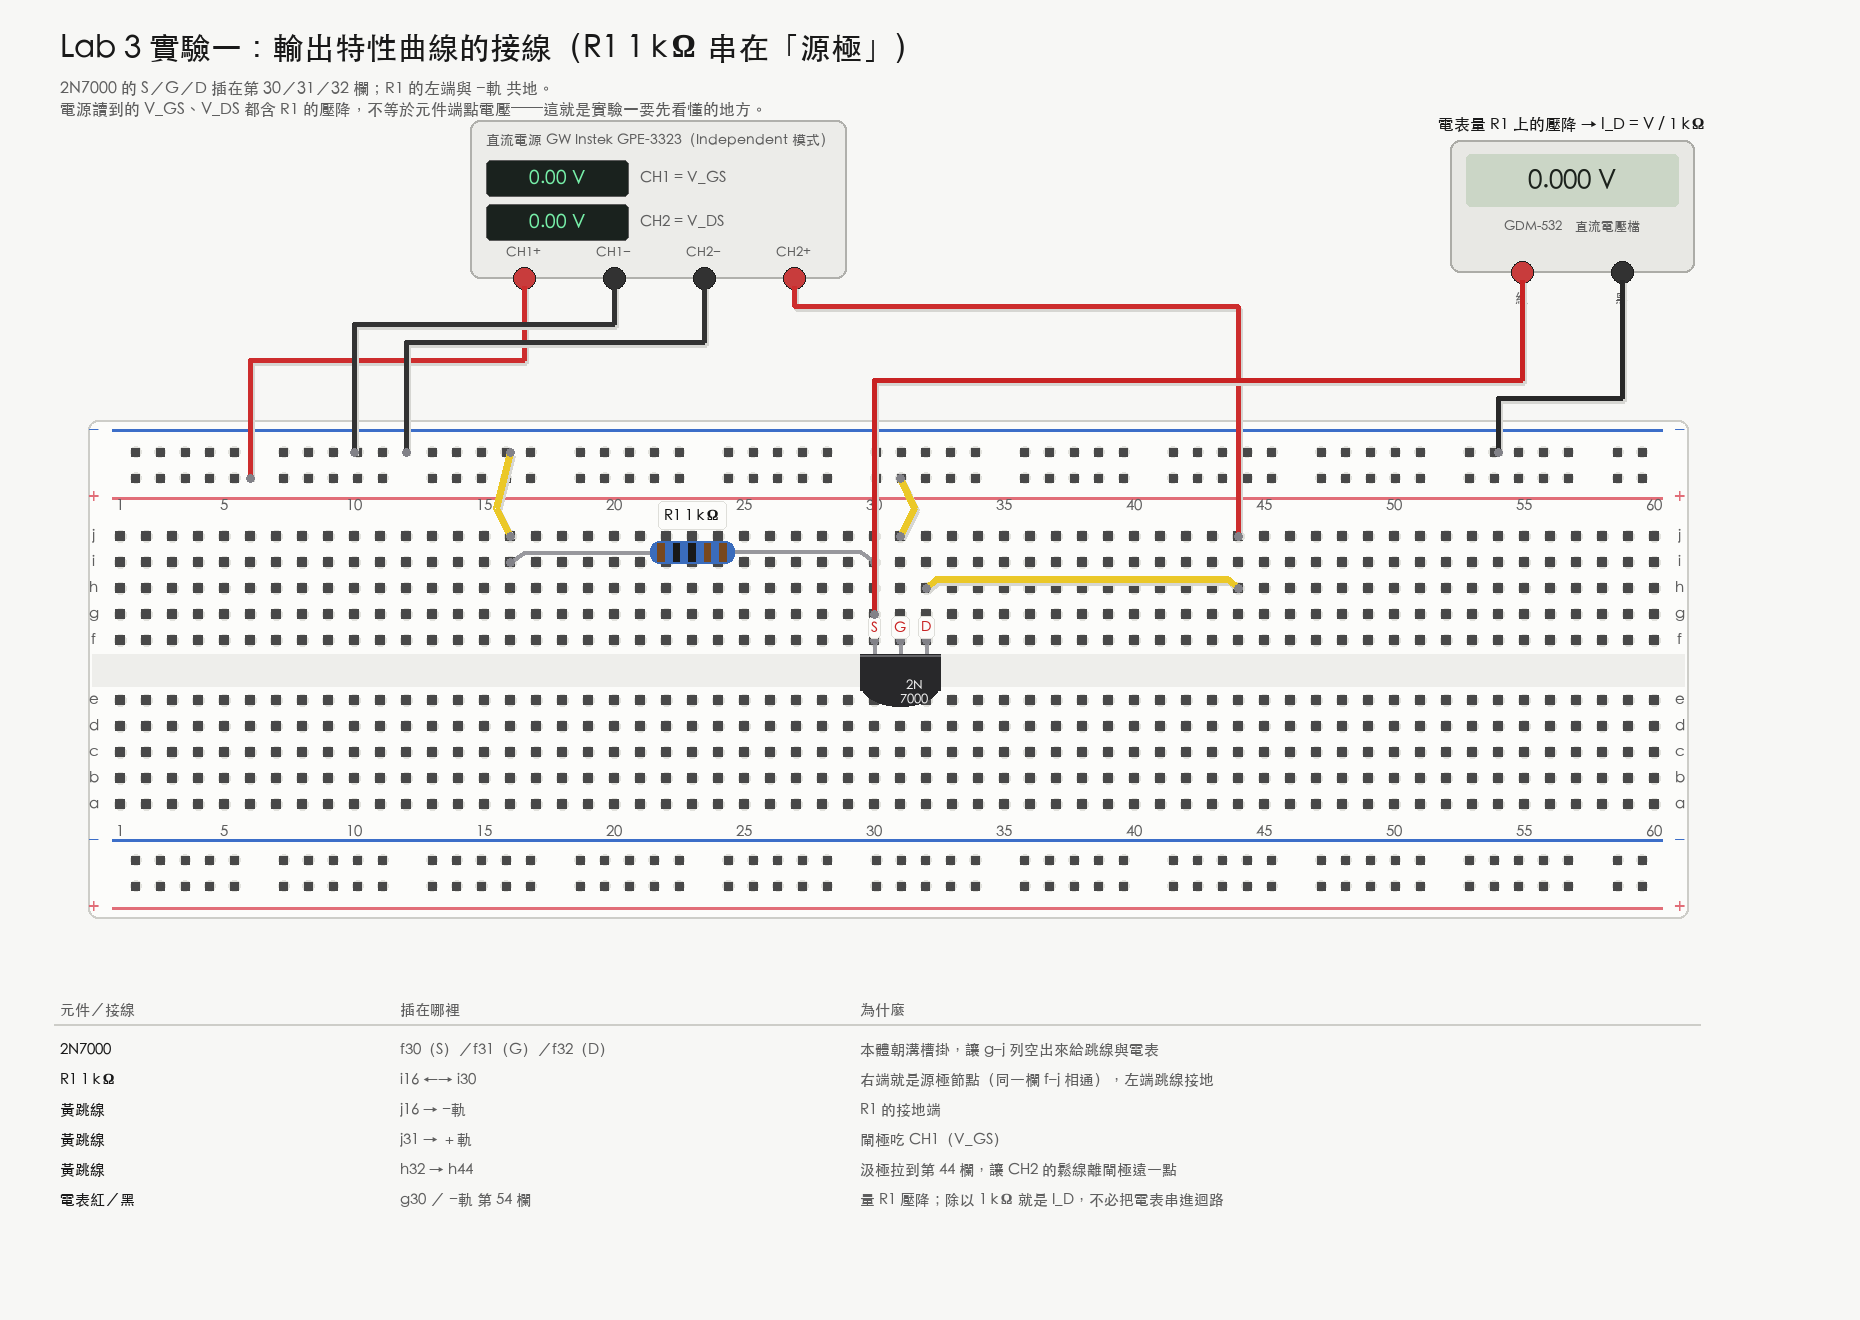
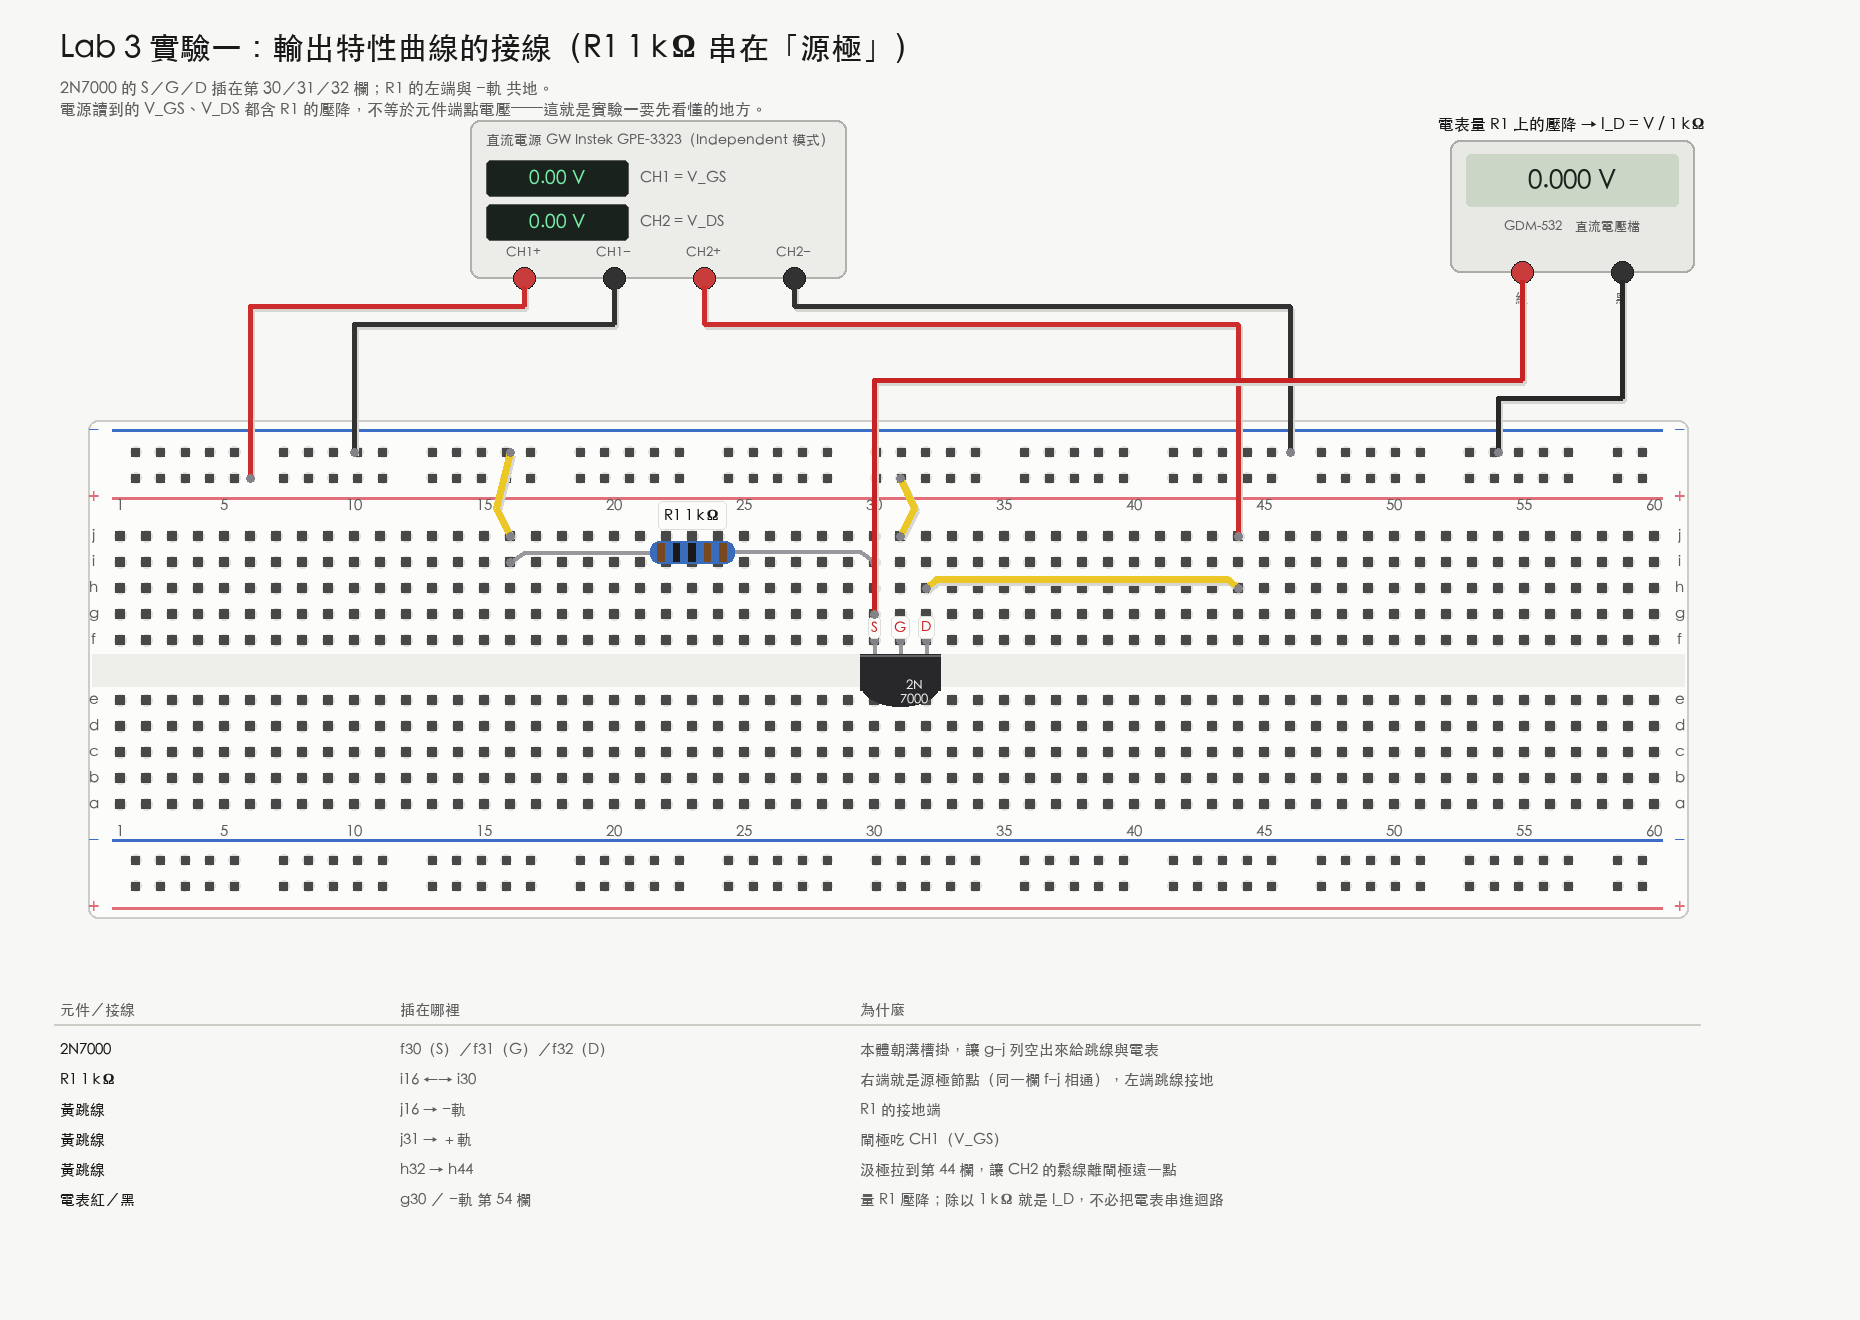
fix(lab): 電源面板端子改成實機的 CH1+ CH1− CH2+ CH2− 並重排電源線
GPE-3323 前面板實際是紅黑紅黑，原本 Lab 2／Lab 3 的麵包板圖把 CH2 畫成
− 在左、+ 在右。

- 兩支繪圖腳本交換 CH2 端子；CH2− 改走上層線道、越過 CH2+ 落點再夾 −軌
  （Lab 2 第 48 欄、Lab 3 第 46 欄），四條電源線不再交叉
- Lab 3 電流分析圖腳本的線道常數與接線圖同步（原本 324 對 342 錯位）
- 重新產出 Lab 2 接線圖與 Lab 3 三組接線圖／電流分析圖
- 第 6、9 週筆記補上端子順序與 CH2− 夾哪一欄
- lab-workflow skill 記下「儀器面板照實機畫」與不交叉繞線規則

Claude-Session: https://claude.ai/code/session_01KhUmVZdES17hR21BqzEYv8

Changed region(s): [[0.1247, 0.1864, 0.7172, 0.2795], [0.686, 0.3106, 0.7172, 0.3417]]

diff --git a/simulations/lab2/draw_real_breadboard.py b/simulations/lab2/draw_real_breadboard.py
@@ -307,10 +307,10 @@ def supply(d, x, y, ch1, ch2):
                             fill=(26, 34, 30), outline=(92, 92, 92))
         text(d, (x + 87, yy + 18), val, size=19, fill=(118, 238, 168), anchor="mm")
         text(d, (x + 170, yy + 18), lab, size=15, fill=INK2, anchor="lm")
-    # 四個端子，由左到右：CH1+ CH1− CH2− CH2+
+    # 四個端子，由左到右：CH1+ CH1− CH2+ CH2−（GPE-3323 實機是紅黑紅黑）
     posts = {}
     order = [("ch1+", "CH1+", (200, 60, 60)), ("ch1-", "CH1−", (50, 50, 50)),
-             ("ch2-", "CH2−", (50, 50, 50)), ("ch2+", "CH2+", (200, 60, 60))]
+             ("ch2+", "CH2+", (200, 60, 60)), ("ch2-", "CH2−", (50, 50, 50))]
     for i, (key, lab, col) in enumerate(order):
         px = x + 54 + i * 90
         d.ellipse([px - 11, y + h - 11, px + 11, y + h + 11], fill=col,
@@ -362,6 +362,7 @@ C_VBB = 18        # V_BB 從 ＋軌 跳進板上的欄
 C_E, C_B, C_C = 30, 31, 32
 C_R2G = 42        # R2 下端接地的欄
 C_VCC = 45        # V_CC 進線的欄（R_C 另一端）
+C_G2 = 48         # CH2− 夾在 −軌 的這一欄（在 j45 右邊，線才不會和 CH2+ 交叉）
 C_BLK = 56        # 電表黑線固定夾在 −軌 的這一欄
 
 BANDS_10K = ["棕", "黑", "黑", "紅", "棕"]
@@ -428,25 +429,28 @@ def fig_wiring():
     draw_circuit(d)
     node_marks(d)
 
-    # 電源四條線：端子由左到右、目標也由左到右，彼此不交叉
-    targets = [
-        ("ch1+", hole(7, "+"), WIRE_RED, "CH1+ → ＋軌"),
-        ("ch1-", hole(10, "-"), WIRE_BLACK, "CH1− → −軌"),
-        ("ch2-", hole(13, "-"), WIRE_BLACK, "CH2− → −軌"),
-    ]
-    for i, (key, tgt, col, lab) in enumerate(targets):
+    # 電源四條線。實機端子由左到右是 CH1+ CH1− CH2+ CH2−：
+    # CH1 兩條往左下進電源軌；CH2+ 走 362 這條線道往右到 j45，
+    # CH2− 走更高的 340 往右、越過第 45 欄後才下到「−」軌（第 48 欄），四條線都不交叉。
+    for key, tgt, col in (("ch1+", hole(7, "+"), WIRE_RED),
+                          ("ch1-", hole(10, "-"), WIRE_BLACK)):
         px, py = posts[key]
-        lane = 372 + i * 0
-        wire(d, [(px, py), (px, lane), (tgt[0], lane + 14), tgt], col, width=6)
+        wire(d, [(px, py), (px, 372), (tgt[0], 386), tgt], col, width=6)
         plug(d, tgt)
     px, py = posts["ch2+"]
-    wire(d, [(px, py), (px, 392), (cx(C_VCC) - 18, 392), hole(C_VCC, "j")], WIRE_RED, width=6)
+    wire(d, [(px, py), (px, 362), (cx(C_VCC) - 18, 362), hole(C_VCC, "j")], WIRE_RED, width=6)
     plug(d, hole(C_VCC, "j"))
+    px, py = posts["ch2-"]
+    xg, yg = hole(C_G2, "-")
+    wire(d, [(px, py), (px, 340), (xg, 340), (xg, yg)], WIRE_BLACK, width=6)
+    plug(d, (xg, yg))
 
     text(d, (cx(7) - 20, 410), "CH1+ 進「＋」軌＝V_BB", size=14, fill=CALL, anchor="rm")
-    text(d, (cx(13) + 20, 410), "CH1− 與 CH2− 一起夾「−」軌＝共地", size=14, fill=CALL, anchor="lm")
-    text(d, (cx(C_VCC) - 28, 376), "CH2+ 直接進 j45（RC 的另一端）＝V_CC",
+    text(d, (cx(10) + 20, 410), "CH1− 夾「−」軌＝共地", size=14, fill=CALL, anchor="lm")
+    text(d, (cx(C_VCC) - 28, 380), "CH2+ 直接進 j45（RC 的另一端）＝V_CC",
          size=14, fill=CALL, anchor="rm")
+    text(d, (cx(C_G2) + 14, 410), "CH2− 也夾「−」軌（第 48 欄）＝共地",
+         size=14, fill=CALL, anchor="lm")
 
     callout(d, (980, 168),
             "為什麼 V_CC 不也走電源軌？\n"
@@ -469,7 +473,7 @@ def fig_wiring():
           ["", "插什麼", "為什麼"],
           [40, 400, 420],
           [(str(i + 1), a, b) for i, (a, b) in enumerate([
-              ("CH1− 與 CH2− 兩條線都夾進上方「−」軌", "共地。漏掉這條整個電路不會動"),
+              ("CH1− 夾第 10 欄、CH2− 夾第 48 欄，都在上方「−」軌", "共地。漏掉這條整個電路不會動"),
               ("CH1+ 夾進上方「＋」軌", "這一路是 V_BB"),
               ("黃跳線：＋軌 → j18", "把 V_BB 帶到板上"),
               ("R1 10 kΩ 橫插 i18 → i31", "分壓上臂"),

diff --git a/simulations/lab3/annotate_current_path.py b/simulations/lab3/annotate_current_path.py
@@ -5,7 +5,7 @@
   綠實線 = 電流走的路、綠虛線 = 封裝內部看不到的那一段、
   紅三角 = 方向、紅底白字圓圈 = 下方逐步說明的列、藍虛線 = 電壓表量測線（不分流）。
 
-用法：simulations/lab1/.venv/bin/python simulations/lab3/annotate_current_path.py
+用法：~/.local/bin/uv run -q --with pillow python -I simulations/lab3/annotate_current_path.py
 """
 from __future__ import annotations
 
@@ -27,9 +27,10 @@ DIR = os.path.join(HERE, "..", "..", "public", "note-images", "ec-week9-breadboa
 C_S, C_G, C_D, C_GND, C_SUP, C_BLK = 30, 31, 32, 16, 44, 54
 Y = {r: bb.hole(1, r)[1] for r in "jihgfedcba"}
 RAIL_M = bb.hole(1, "-")[1]
-POST_CH2P = (470 + 54 + 3 * 90, 120 + 158 + 8)
-POST_CH2M = (470 + 54 + 2 * 90, 120 + 158 + 8)
-LANE_CH2P, LANE_GND2 = 306, 324
+POST_CH2P = (470 + 54 + 2 * 90, 120 + 158 + 8)
+POST_CH2M = (470 + 54 + 3 * 90, 120 + 158 + 8)
+LANE_CH2M, LANE_CH2P = 306, 324     # 與 draw_breadboard.py 同步
+C_CH2M = 46                          # CH2− 夾在 −軌 的欄
 METER_RED = (1450 + 72, 140 + 132 + 8)
 METER_BLK = (1450 + 244 - 72, 140 + 132 + 8)
 LANE_MRED, LANE_MBLK = 380, 398
@@ -73,8 +74,8 @@ def supply_return(d, col_gnd):
     """接地端 → −軌 → 電源 CH2−，回到電源負端，把迴路閉上。"""
     xg = h(col_gnd, "j")[0]
     path(d, [h(col_gnd, "j"), (xg - 14, 508), (xg, RAIL_M)], w=13)
-    path(d, [(xg, RAIL_M), (h(12, "-")[0], RAIL_M)], w=13)
-    path(d, [h(12, "-"), (h(12, "-")[0], LANE_GND2), (POST_CH2M[0], LANE_GND2), POST_CH2M],
+    path(d, [(xg, RAIL_M), (h(C_CH2M, "-")[0], RAIL_M)], w=13)
+    path(d, [h(C_CH2M, "-"), (h(C_CH2M, "-")[0], LANE_CH2M), (POST_CH2M[0], LANE_CH2M), POST_CH2M],
          w=11)
 
 
@@ -126,9 +127,9 @@ def exp1(canvas, d, T):
     voltmeter(d, C_S, "g")
 
     for i, xy in enumerate([
-        (xsu, 306), (xsu, (Y["j"] + Y["h"]) / 2), ((xsu + xd) / 2, Y["h"] - 9),
+        (xsu, LANE_CH2P), (xsu, (Y["j"] + Y["h"]) / 2), ((xsu + xd) / 2, Y["h"] - 9),
         (xd + 26, Y["f"] + 30), (mid + 110, Y["i"] - 10), (xg - 7, 508),
-        (h(12, "-")[0], LANE_GND2),
+        (h(C_CH2M, "-")[0], (LANE_CH2M + RAIL_M) / 2),
     ]):
         badge(d, xy, str(i + 1), fn)
 
@@ -154,9 +155,9 @@ def exp2(canvas, d, T):
     voltmeter(d, C_D, "h")
 
     for i, xy in enumerate([
-        (xsu, 306), (mid2 + 110, Y["i"] - 10), (xd, (Y["h"] + Y["f"]) / 2),
+        (xsu, LANE_CH2P), (mid2 + 110, Y["i"] - 10), (xd, (Y["h"] + Y["f"]) / 2),
         (h(C_D, "f")[0] + 26, Y["f"] + 30), (xs, (Y["g"] + Y["j"]) / 2),
-        (xs - 7, 508), (h(12, "-")[0], LANE_GND2),
+        (xs - 7, 508), (h(C_CH2M, "-")[0], (LANE_CH2M + RAIL_M) / 2),
     ]):
         badge(d, xy, str(i + 1), fn)
 
@@ -192,9 +193,9 @@ def exp4(canvas, d, T):
     voltmeter(d, C_S, "g")
 
     for i, xy in enumerate([
-        (xsu, 306), ((xsu + xa) / 2, Y["g"] - 9), (mled + 70, Y["h"] - 12),
+        (xsu, LANE_CH2P), ((xsu + xa) / 2, Y["g"] - 9), (mled + 70, Y["h"] - 12),
         (xd, (Y["h"] + Y["f"]) / 2), (h(C_D, "f")[0] + 26, Y["f"] + 30),
-        (midr + 110, Y["i"] - 10), (h(12, "-")[0], LANE_GND2),
+        (midr + 110, Y["i"] - 10), (h(C_CH2M, "-")[0], (LANE_CH2M + RAIL_M) / 2),
     ]):
         badge(d, xy, str(i + 1), fn)
 

diff --git a/simulations/lab3/draw_breadboard.py b/simulations/lab3/draw_breadboard.py
@@ -34,7 +34,11 @@ BANDS_1K = ["棕", "黑", "黑", "棕", "棕"]
 BANDS_100 = ["棕", "黑", "黑", "黑", "棕"]
 
 # 儀器與板子之間的水平走廊（面板端子在 y≈286／290，板子上緣 420）
-LANE_CH2P, LANE_GND, LANE_GND2, LANE_CH1P = 306, 324, 342, 360
+# 線道：CH1 兩條往左、CH2 兩條往右，左右各自「外側端子走上層、內側端子走下層」就不交叉。
+# CH2− 不往左回第 12 欄，而是越過 CH2+ 的落點（第 44 欄）夾在第 46 欄的 −軌。
+LANE_CH1P, LANE_GND = 306, 324        # CH1+（最左）走上層、CH1− 走下層，都往左
+LANE_CH2M, LANE_CH2P = 306, 324       # CH2−（最右）走上層、CH2+ 走下層，都往右
+C_CH2M = 46                           # CH2− 夾在 −軌 的這一欄
 LANE_MRED, LANE_MBLK = 380, 398
 
 LED_RED = (214, 52, 52)
@@ -100,7 +104,7 @@ def supply3(d, x, y, ch2_label="CH2 = V_DS"):
         bb.text(d, (x + 170, yy + 18), lab, size=15, fill=bb.INK2, anchor="lm")
     posts = {}
     order = [("ch1+", "CH1+", (200, 60, 60)), ("ch1-", "CH1−", (50, 50, 50)),
-             ("ch2-", "CH2−", (50, 50, 50)), ("ch2+", "CH2+", (200, 60, 60))]
+             ("ch2+", "CH2+", (200, 60, 60)), ("ch2-", "CH2−", (50, 50, 50))]
     for i, (key, lab, col) in enumerate(order):
         px = x + 54 + i * 90
         d.ellipse([px - 11, y + h - 11, px + 11, y + h + 11], fill=col,
@@ -112,13 +116,13 @@ def supply3(d, x, y, ch2_label="CH2 = V_DS"):
 
 def rails(d, ch2_label="CH2 = V_DS"):
     """兩台電源：CH1 = V_GS 走 ＋軌，CH2 = V_DS 用一條鬆線直接進 C_SUP 欄，
-    兩台的 − 共接 −軌。面板端子由左到右是 CH1+ CH1− CH2− CH2+。"""
+    CH1− 夾第 10 欄、CH2− 夾第 46 欄，同一條 −軌＝共地。面板端子由左到右是 CH1+ CH1− CH2+ CH2−（GPE-3323 實機是紅黑紅黑）。"""
     posts = supply3(d, 470, 120, ch2_label)
     x1, y1 = bb.hole(6, "+")
     bb.wire(d, [posts["ch1+"], (posts["ch1+"][0], LANE_CH1P), (x1, LANE_CH1P), (x1, y1)],
             bb.WIRE_RED, width=5)
     bb.plug(d, (x1, y1))
-    for key, col, lane in (("ch1-", 10, LANE_GND), ("ch2-", 12, LANE_GND2)):
+    for key, col, lane in (("ch1-", 10, LANE_GND), ("ch2-", C_CH2M, LANE_CH2M)):
         xx, yy = bb.hole(col, "-")
         bb.wire(d, [posts[key], (posts[key][0], lane), (xx, lane), (xx, yy)],
                 bb.WIRE_BLACK, width=5)

diff --git a/.claude/skills/lab-workflow/references/current-path-overlay.md b/.claude/skills/lab-workflow/references/current-path-overlay.md
@@ -100,6 +100,14 @@ im.crop((330,270,660,460)).resize((330*3,190*3), Image.LANCZOS).save('/tmp/crop.
   要更重就加大字級，不要加 stroke；數字例外（筆畫簡單，`bold=True` 沒問題）。
 - **標題一律 `label(d, (W // 2, 26), ..., align="center")`**，不要自己減一個猜出來的寬度。
 - **Heiti TC 沒有 `✕`**，標籤文字寫「紅叉」，圖上的叉用 `blocker()` 畫。
+- **儀器面板照實驗室的實機畫**（自繪的實體麵包板圖，例如 `lab2/draw_real_breadboard.py`、`lab3/draw_breadboard.py`）：
+  作者是照圖接線的，端子順序錯了就會插錯孔。GW Instek GPE-3323 前面板端子由左到右是
+  **CH1+ CH1− CH2+ CH2−（紅黑紅黑）**，兩組都是正端在左（2026-11-04 作者以實驗室照片糾正，
+  原本把 CH2 畫成 − 在左）。其他儀器第一次畫之前，先跟作者要面板照片或查 datasheet 的前面板圖。
+- **電源線不交叉的繞法**：往左的線，越外側的端子走越上面的線道；往右的線也一樣。
+  CH2+ 往右接電路時，CH2− 不往左回 −軌，而是走更上層、越過 CH2+ 的落點再夾 −軌（−軌整條相通，共地不變）。
+- **線道與端子座標只放一份**：分析圖腳本若各自抄一份接線圖的線道 y 值，改了接線圖就會不同步
+  （lab3 曾經 324 對 342，綠線沒貼著黑線）。改接線圖時兩支腳本一起改、一起重跑。
 
 ## 一定要標到的六件事
 
@@ -143,5 +151,6 @@ im.crop((330,270,660,460)).resize((330*3,190*3), Image.LANCZOS).save('/tmp/crop.
 | 編號圓圈壓住要看的元件 | 電阻、電容本體都比圓圈小。把編號移到相鄰的空列（麵包板 f、g 列）或元件右側兩三欄 |
 | 標籤壓住要讀的欄位標籤／元件 | 移到留白區或元件之間的空列（麵包板的 g、f 列通常是空的） |
 | 圖產完直接貼進筆記 | 沒用 Read 打開看就是沒驗證。錯位、重疊、方向相反都只有看圖才會發現 |
+| 電源面板端子順序和實機不同 | 照實機畫：GPE-3323 是 CH1+ CH1− CH2+ CH2−。改完端子要一併重排電源線、重跑分析圖，並 grep 筆記裡描述端子／夾哪一欄的文字 |
 | 原圖被覆蓋 | 輸出一律加 `-current` 後綴；接線圖與分析圖在筆記裡並存 |
 | 估算式和圖上讀值對不起來 | 固定壓降模型（$V_{D,on}=0.7$ V）在導通電壓附近會失效，要改用圖上的實際 $V_D$ 代入 $(V_s-V_D)/R$，並在筆記點破模型的適用範圍 |

diff --git a/.claude/skills/lab-workflow/SKILL.md b/.claude/skills/lab-workflow/SKILL.md
@@ -60,6 +60,7 @@ description: Use when the author has a lab handout (App_LabN.pdf、實驗講義)
 - 濾波電容大的 `.tran` 只跑 50 ms → 還沒到穩態，漣波算錯。
 - 圖沒用 Read 打開看就貼進筆記 → 圖例重疊、座標軸錯了都看不到；電流分析圖尤其如此，路徑偏一排孔、箭頭方向相反只有看圖才發現。
 - 只給 Tinkercad 接線圖、沒有電流分析圖 → 作者沒有電路學背景，看得懂接法不等於看得懂電流；兩張要成對出現。
+- 自繪麵包板圖的儀器面板憑印象畫 → 端子順序要照實機（GPE-3323 是 CH1+ CH1− CH2+ CH2−，紅黑紅黑），作者照圖接線，順序錯就插錯孔；交圖前用 Read 打開，逐一對照面板端子與實機照片。
 - 電流分析圖覆蓋掉原始接線圖 → 原圖是接線證據、分析圖是教材，兩張都要留。
 - 講義的英文目標／步驟整句粗體照抄再接中文 → 作者要的是中文為主、英文術語括號附註；knee voltage 一律寫「導通電壓」，不寫「膝點」。
 - 結報交件版任何一段寫成教科書條目（「本實驗以……藉此觀察並驗證」、三條平行條列、每題「定義 → 機制 → 所以……」收尾、原理段落可以原封搬去別人的報告）→ 一看就是 AI 寫的，助教會退。那是作者署名交出去的東西，整份照 `references/report-voice.md` 用當天的操作與自己的讀值講，長短不一、留幾處轉折；不是只改實驗目的和講義問題。
